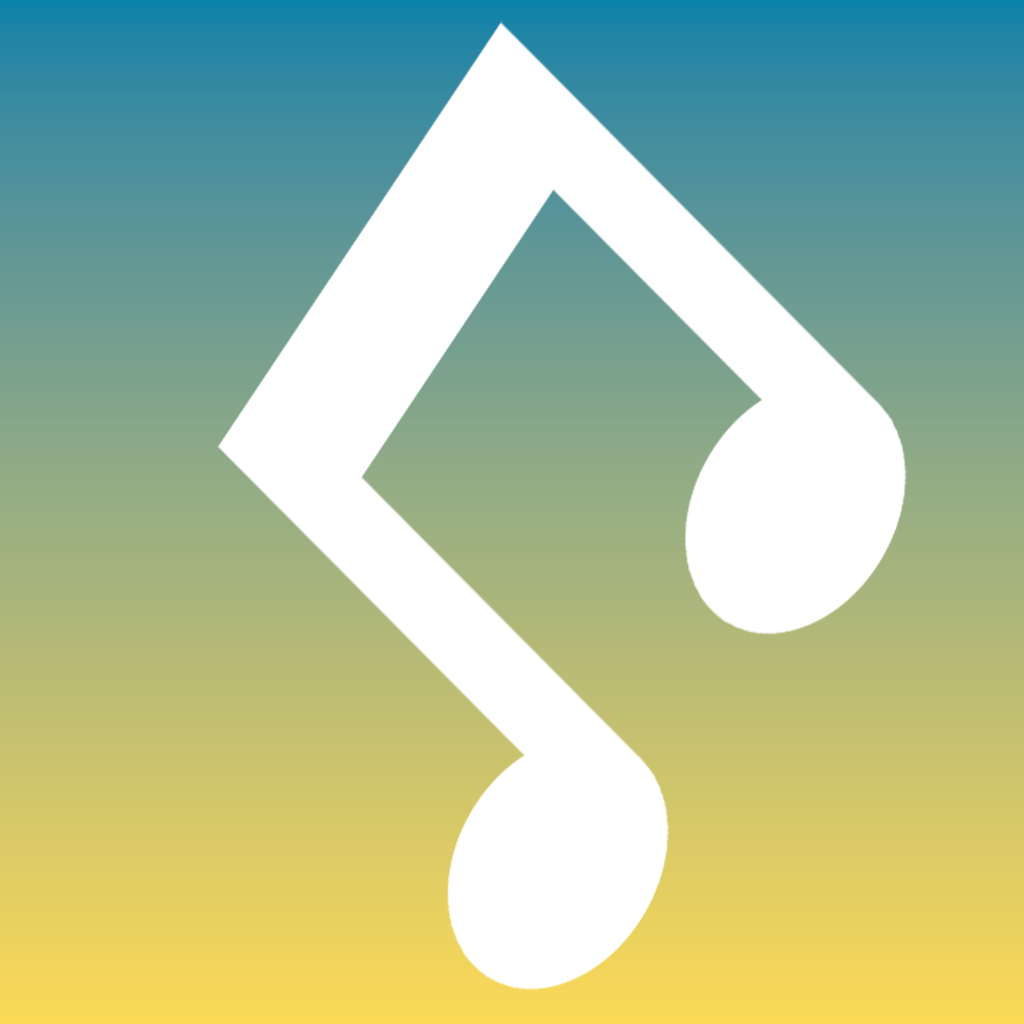
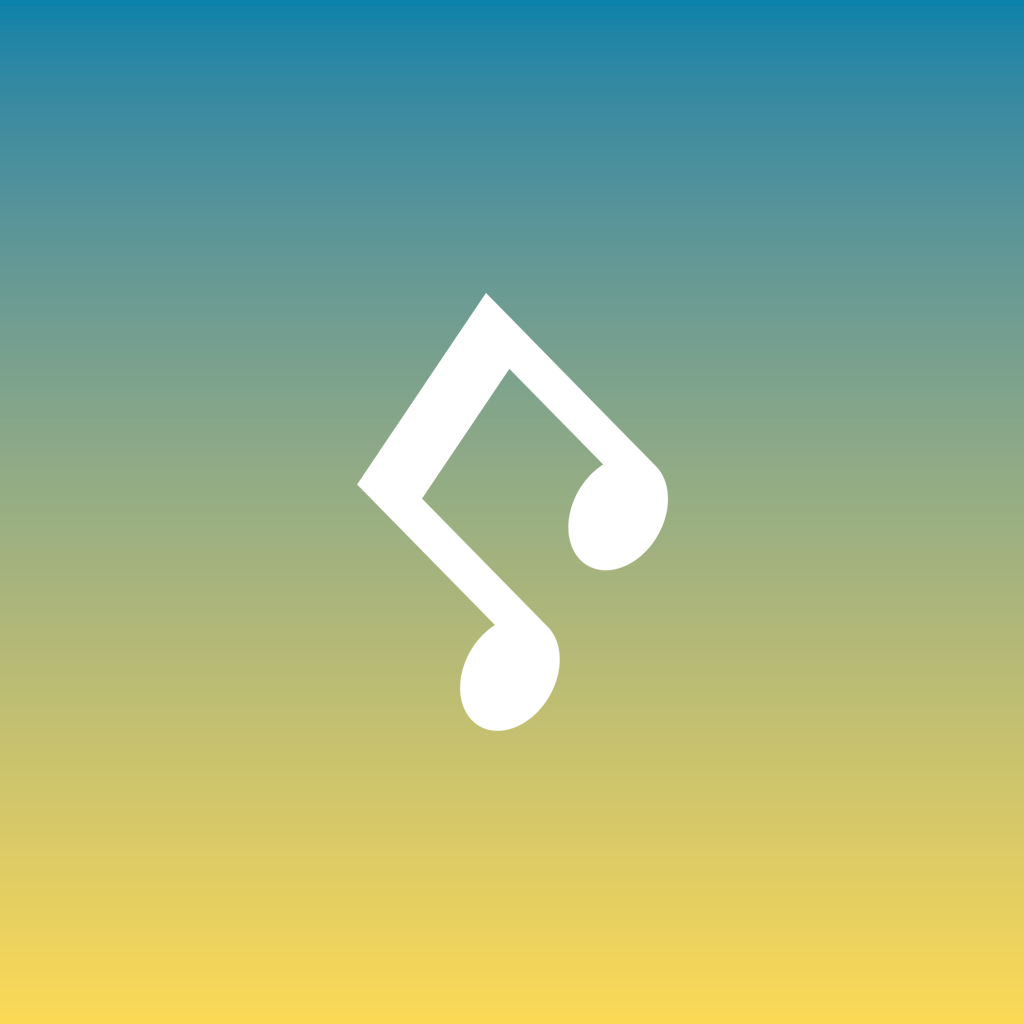
Aumentar fonte da letra da musica; ajuste no ícone; ajuste de acabamentos

Changed region(s): [[0.2188, 0.0312, 0.9062, 0.9688]]

diff --git a/src/components/LetraMusica/index.js b/src/components/LetraMusica/index.js
@@ -7,21 +7,15 @@ export default function LetraMusica(props) {
 
     return(
         <View style={styles.formLyricTextContainer}>
-            <View style={{width: '100%', alignItems: 'center'}}>
-                <Image style={styles.imageArtist} source={{uri: props.imagemArtista}} />
-            </View>
-            <View style={{width: '100%', alignItems: 'center'}}>
-                <Text style={styles.titleMusic}>{lyric != '' && `${lyric.mus[0].name}`}</Text>
-                <Text style={styles.nameArtist}>{lyric != '' && `${lyric.art.name}`}</Text>
-            </View>
             <ScrollView >
-                <Text style={{paddingLeft: 20, paddingTop: 10}}>{lyric != '' && `${lyric.mus[0].text}\n\nDisponível em: ${lyric.mus[0].url}\n\n\n`}</Text>
-                {/* <TextInput
-                    style={styles.formLyricText}
-                    multiline={true}
-                    editable={false}
-                    defaultValue={lyric != '' && `${lyric.mus[0].name}\n${lyric.art.name}\n${lyric.mus[0].url}\n\n${lyric.mus[0].text}\n`}
-                /> */}
+                <View style={{width: '100%', alignItems: 'center'}}>
+                    <Image style={styles.imageArtist} source={{uri: props.imagemArtista}} />
+                </View>
+                <View style={{width: '100%', alignItems: 'center', marginTop: 10}}>
+                    <Text style={styles.titleMusic}>{lyric != '' && `${lyric.mus[0].name}`}</Text>
+                    <Text style={styles.nameArtist}>{lyric != '' && `${lyric.art.name}`}</Text>
+                </View>
+                    <Text style={styles.formLyricText}>{lyric != '' && `${lyric.mus[0].text}\n\nDisponível em: ${lyric.mus[0].url}\n\n\n`}</Text>
             </ScrollView>
         </View>
     )

diff --git a/src/components/Form/index.js b/src/components/Form/index.js
@@ -8,7 +8,7 @@ import LetraMusica from '../LetraMusica';
 export default function Form() {
     const[music, setMusic] = useState(null)
     const[artist, setArtist] = useState(null)
-    const[imageArtistUrl, setImageArtistUrl] = useState('')
+    const[imageArtistUrl, setImageArtistUrl] = useState('https://www.protec.com.br/wp-content/uploads/2022/06/imagem-indisponivel-para-produtos-sem-imagem.jpg')
     const[lyric, setLyric] = useState('')
     const[lyricModal, setLyricModal] = useState(false)
 
@@ -16,7 +16,6 @@ export default function Form() {
         let artistId = lyric.art.id;
         axios.get(`https://api.vagalume.com.br/image.php?bandID=${artistId}&limit=1&apikey={9790636438dcf6fe0cb11ded844d9786}`)
         .then(response => {
-            console.log(response.data.images[0].url);
             setImageArtistUrl(response.data.images[0].url);
         }).catch(error => {
             console.log(error);
@@ -32,9 +31,6 @@ export default function Form() {
             .then((response) => {
                 setLyric(response.data)
                 setLyricModal(true)
-
-                console.log(response.data);
-
                 getImageArtist();
             })
             .catch((error) => {
@@ -53,7 +49,6 @@ export default function Form() {
                 {text: 'OK', onPress: () => console.log('OK Pressed')},
             ]);
         }
-
 
     }
 

diff --git a/src/components/Form/style.js b/src/components/Form/style.js
@@ -6,7 +6,7 @@ const styles = StyleSheet.create({
         flex: .8,
         justifyContent: 'flex-start',
         width: 'auto',
-        height: '100%',
+        height: 'auto',
     },
     formLabel: {
         top: 7,
@@ -27,6 +27,7 @@ const styles = StyleSheet.create({
         borderRadius: 30,
         color: '#ffffff',
         padding: 10,
+        paddingLeft: 20,
         fontSize: 18,
         marginBottom: 20,
     },

diff --git a/src/components/LetraMusica/style.js b/src/components/LetraMusica/style.js
@@ -14,14 +14,17 @@ const styles = StyleSheet.create({
     },
     titleMusic: {
         color: '#006189',
-        fontSize: 20,
+        fontSize: 22,
     },
     nameArtist: {
         color: '#006189',
+        fontSize: 17,
     },
     formLyricText: {
-        fontSize: 15,
+        fontSize: 17,
         color:'#000000',
+        paddingLeft: 20, 
+        paddingTop: 20,
     },
 
 
